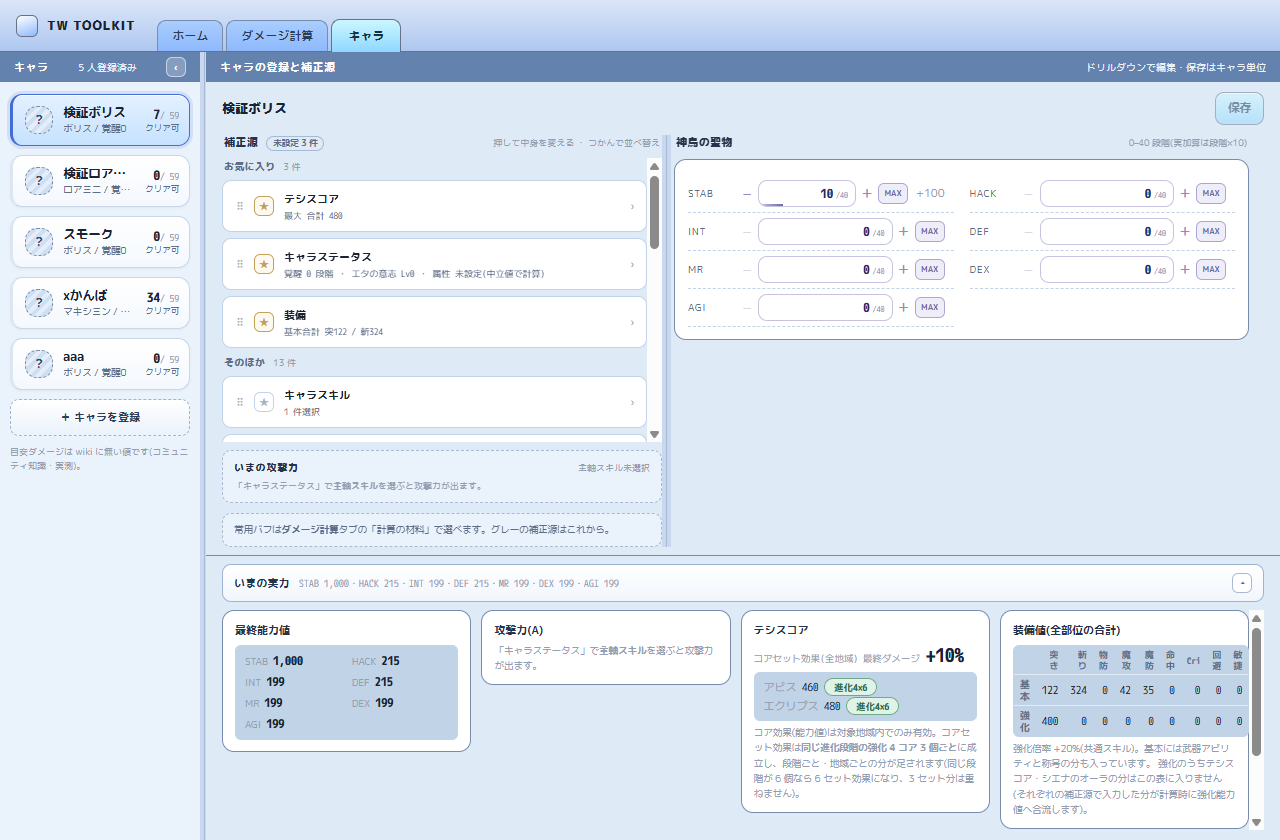
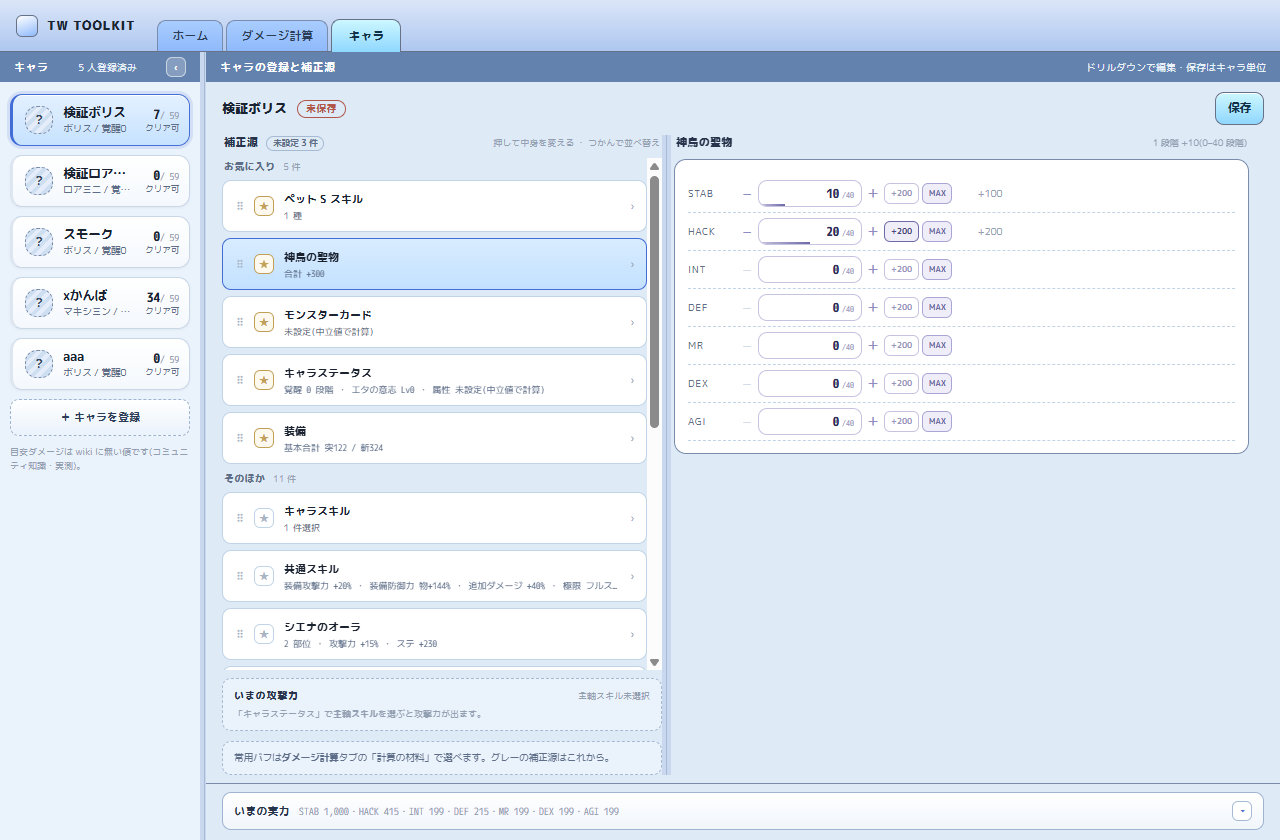
feat(ui): 神鳥の聖物に「+200」を 1 押しで置き、入力欄の幅を固定する
- 多くの人は +200(20 段階)で止まるので、そこを 1 押しで入れられるようにする。
  MAX だけ置いても押されない値がある(§12「MAX を 1 タップで置く」と同じ思想)。
  StatInput に presets を足した
- 見出しを「1 段階 +10」に。実加算のかけ算をこちらで言い切る
- **format の結果が出たり消えたりして、その行だけ入力欄の幅が変わっていた**。
  値が 0 のときも場所を確保する(§09 規則 4)。入力欄自体も 104px に固定して、
  行いっぱいに伸ばさない — 数字と ＋ / MAX が離れると視線が横に流れる

Claude-Session: https://claude.ai/code/session_01JvRWxU3ohwNNHW2hQatCCP

diff --git a/apps/desktop/src/pages/chars/SourcePane.svelte b/apps/desktop/src/pages/chars/SourcePane.svelte
@@ -637,7 +637,7 @@
     rune: { title: "ルーンスキル", note: `スキル Lv がそのままステに乗る(Lv 0–${limits.rune_level_max})` },
     crown: { title: "クラウン", note: `ステに乗る実値(0–${limits.crown_max})` },
     monsterCard: { title: "モンスターカード", note: `装着カードのステータス(0–${limits.monster_card_max})` },
-    relic: { title: "神鳥の聖物", note: `0–${limits.sacred_relic_stage_max} 段階(実加算は段階×10)` },
+    relic: { title: "神鳥の聖物", note: `1 段階 +10(0–${limits.sacred_relic_stage_max} 段階)` },
     siena: { title: "シエナのオーラ", note: "Lv310 の 8 部位・増幅段階と能力値" },
     randomOption: { title: "ランダムOP", note: "部位ごとの追加効果(同じカテゴリーは 1 部位 1 つ)" },
     title: { title: "称号", note: "表示中の 1 件だけが装備の基本能力値に乗る" },
@@ -1151,6 +1151,7 @@
         {#each STAT_KINDS as k (k)}
           <div class="stat-row">
             <span class="k">{STAT_LABELS[k]}</span>
+            <!-- 1 段階 = +10。多くの人は +200(20 段階)で止まるので、そこを 1 押しで置く -->
             <StatInput
               label=""
               min={0}
@@ -1158,6 +1159,7 @@
               stepper
               bind:value={draft.statSources.sacred_relic[k]}
               format={(v) => (v > 0 ? `+${v * 10}` : "")}
+              presets={[{ value: 20, label: "+200" }]}
             />
           </div>
         {/each}
@@ -2033,12 +2035,17 @@
   /* 同じ形のステが 8 個並ぶ場所の共通形。ラベルを左に置いて 1 ステ 1 行にする —
      ラベルを上に置くと 1 件で 2 行使い、8 件で画面が埋まる(§00 01 / 02) */
   .stat-rows { margin-top: 8px; display: grid; grid-template-columns: 1fr; gap: 5px; }
-  .stat-rows.two { grid-template-columns: repeat(auto-fill, minmax(240px, 1fr)); gap: 5px 16px; }
+  /* 2 列にするのは中身が収まるときだけ。狭いと右の列にはみ出して隣の行に重なる */
+  .stat-rows.two { grid-template-columns: repeat(auto-fill, minmax(290px, 1fr)); gap: 5px 16px; }
   .stat-row {
     display: grid; grid-template-columns: 42px minmax(0, 1fr) auto; gap: 9px; align-items: center;
     padding-bottom: 5px; border-bottom: 1px dashed var(--border-soft);
   }
   .stat-row .k { font-size: 10px; letter-spacing: 0.06em; color: var(--fg-muted); }
+  .stat-row > :global(.stepper) { min-width: 0; }
+  /* 入力欄は数値 2〜4 桁ぶんあれば足りる。行いっぱいに伸ばすと、数字と ＋ / MAX が離れて
+     視線が横に流れる(§00 01)。全行が同じ幅なので端もそろう */
+  .stat-rows.two .stat-row :global(.stepper .cell) { flex: 0 1 104px; }
   .stat-row .v { min-width: 44px; text-align: right; font-size: 12px; font-weight: 700; color: var(--fg-sub); }
 
   .core-list { display: flex; flex-direction: column; gap: 7px; }

diff --git a/apps/desktop/src/ui/StatInput.svelte b/apps/desktop/src/ui/StatInput.svelte
@@ -23,6 +23,12 @@
     step?: number;
     format?: (value: number) => string;
     /**
+     * よく使う値を 1 押しで入れるボタン(§12「MAX を 1 タップで置く」と同じ思想)。
+     * 上限まで盛らないのが普通の値(神鳥の聖物の +200 = 20 段階など)は、
+     * MAX だけ置いても押されない。実際に多い値を隣に出す。
+     */
+    presets?: { value: number; label: string }[];
+    /**
      * 上限に対する進捗を見せるか(§07 形態 4)。**上限まで盛るもの**だけ true —
      * エンチャント・ランダムOP・能力値のように「どこまで届いたか」に意味がある値。
      *
@@ -38,7 +44,7 @@
     stepper?: boolean;
   }
   let {
-    label, value = $bindable(), min, max, step = 1, format, gauge = true, stepper = false,
+    label, value = $bindable(), min, max, step = 1, format, presets = [], gauge = true, stepper = false,
   }: Props = $props();
 
   let text = $state(String(value));
@@ -183,9 +189,20 @@
   {#if stepper}
     <button type="button" class="step" onclick={() => nudge(1)} disabled={value >= max} aria-label="{label} を 1 増やす">＋</button>
   {/if}
+  <!-- よく使う値。MAX と同じく常設する -->
+  {#each presets as p (p.value)}
+    <button
+      type="button"
+      class="preset"
+      class:on={value === p.value}
+      onclick={() => { value = Math.min(max, Math.max(min, p.value)); text = String(value); }}
+    >{p.label}</button>
+  {/each}
   <!-- MAX は**常設**。押して編集に入ってからでは 2 タップになる(§12「MAX を 1 タップで置く」) -->
   {#if showCap}
     <button type="button" class="max" onclick={setMax} disabled={full}>MAX</button>
   {/if}
-  {#if hint}<span class="hint dim">{hint}</span>{/if}
+  <!-- format を渡された欄は**値が 0 でも場所を確保する**。出たり消えたりすると、
+       その行だけ入力欄の幅が変わる(§09 規則 4「あとから幅が変わらない」) -->
+  {#if format}<span class="hint dim fixed">{hint ?? ""}</span>{/if}
 </div>

diff --git a/apps/desktop/src/app.css b/apps/desktop/src/app.css
@@ -405,6 +405,21 @@ details.fold .fold-body { margin-top: 10px; }
 .stepper .val::-webkit-outer-spin-button { appearance: none; margin: 0; }
 .stepper input.val { appearance: textfield; }
 .stepper .cap { flex: none; font-size: 8px; color: var(--cell-cap); font-variant-numeric: tabular-nums; }
+/* format の結果(「+200」など)。0 のときも場所を空けておく — 出たり消えたりすると
+   その行だけ入力欄の幅が変わる(§09 規則 4) */
+.stepper .hint.fixed {
+  flex: none; min-width: 42px; text-align: right; white-space: nowrap;
+  font-size: 9.5px; font-variant-numeric: tabular-nums;
+}
+/* よく使う値のボタン。MAX と同じ寸法で、押されていない間は面を持たない */
+.stepper .preset {
+  flex: none; padding: 3px 6px; border-radius: var(--r-inset);
+  background: none; border: 1px solid var(--cell-bd); color: var(--cell-cap);
+  font-size: 8px; font-weight: 700; white-space: nowrap;
+  font-variant-numeric: tabular-nums; transition: background 0.18s ease;
+}
+.stepper .preset:hover { border-color: var(--sim); color: var(--sim); }
+.stepper .preset.on { background: var(--state-temp-bg); border-color: var(--sim); color: var(--sim-fg); }
 .stepper .step {
   width: 16px; height: 22px; flex: none; padding: 0; line-height: 1;
   background: none; border: none; border-radius: var(--r-chip);
